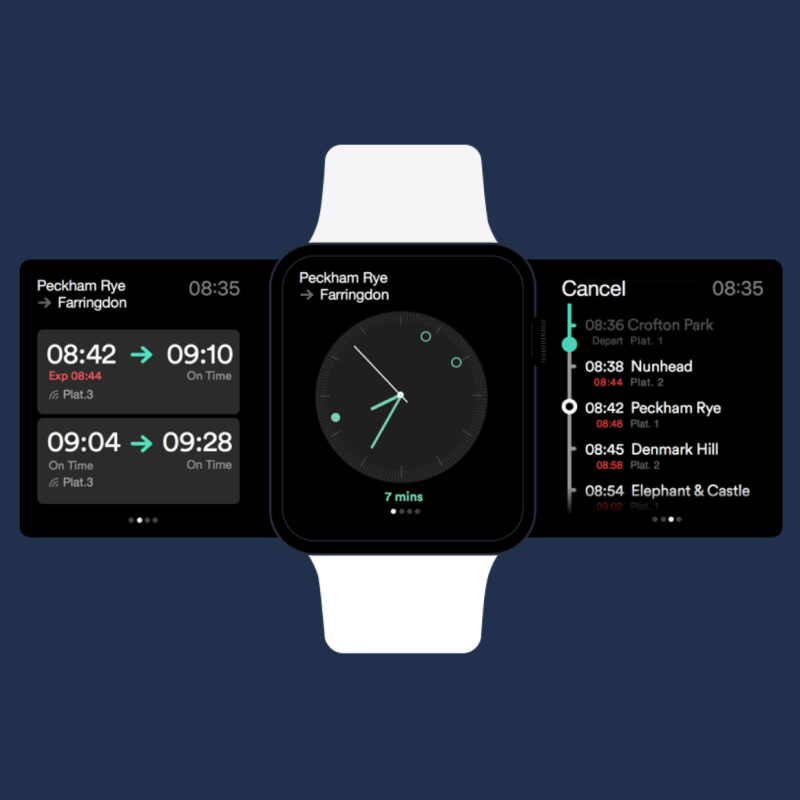
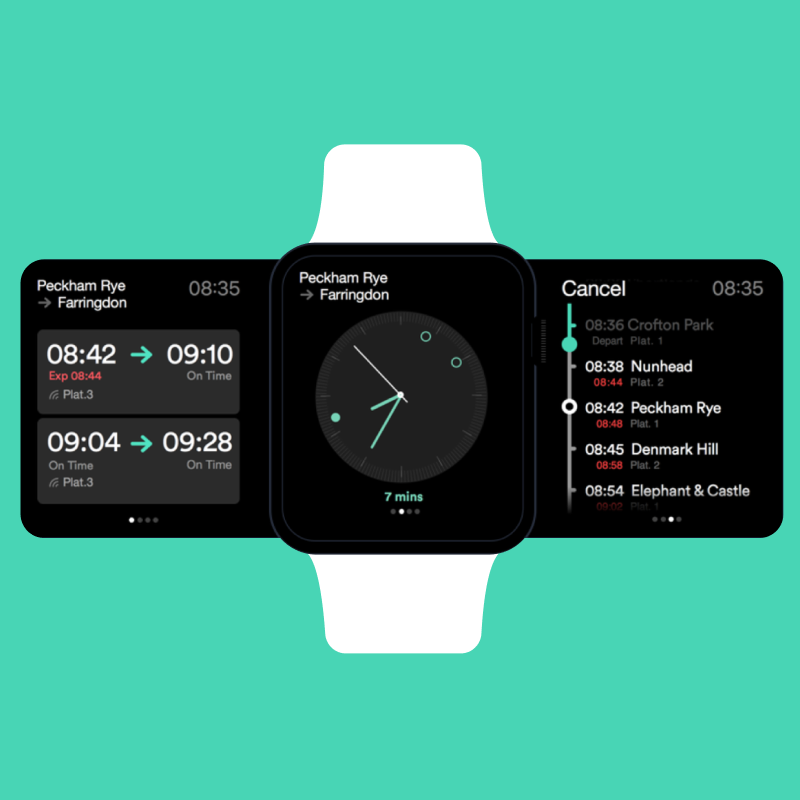
work samples

diff --git a/_includes/work-samples.html b/_includes/work-samples.html
@@ -2,14 +2,38 @@
 <div class="brand-wheel work-samples">
   <div class="brand-slide">
     <div class="work-sample-div">
-      <img src="../assets/images/projects/trainline/trainline-mobile-apps.jpg" class="img-thumbnail rounded" alt="1">
+      <img src="../assets/images/projects/worksamples/cookpad-splash.png" class="img-thumbnail rounded" alt="cookpad splash screen">
     </div>
     <div class="work-sample-div">
-      <img src="../assets/images/projects/worksamples/cookpad-splash.png" class="img-thumbnail rounded" alt="1">
+      <img src="../assets/images/projects/worksamples/cookpad-mise.png" class="img-thumbnail rounded" alt="Cookpad Mise Design System">
     </div>
     <div class="work-sample-div">
-      <img src="../assets/images/projects/worksamples/cookpad-mise.png" class="img-thumbnail rounded" alt="1">
+      <img src="../assets/images/projects/worksamples/cookpad-profile.png" class="img-thumbnail rounded" alt="Cookpad profile">
     </div>
+    <div class="work-sample-div">
+      <img src="../assets/images/projects/worksamples/sainsburys-design-system.png" class="img-thumbnail rounded" alt="sainsburys design system">
+    </div>
+    <div class="work-sample-div">
+      <img src="../assets/images/projects/worksamples/trainline-valid-on-2.png" class="img-thumbnail rounded" alt="Trainline – Also valid on">
+    </div>
+    <div class="work-sample-div">
+      <img src="../assets/images/projects/worksamples/trainline-icons.png" class="img-thumbnail rounded" alt="Trainline Design System icons">
+    </div>
+    <div class="work-sample-div">
+      <img src="../assets/images/projects/worksamples/trainline-apple-watch.png" class="img-thumbnail rounded" alt="Trainline Apple Watch app">
+    </div>
+    <div class="work-sample-div">
+      <img src="../assets/images/projects/recliningworm/wwf/LODPin.jpg" class="img-thumbnail rounded" alt="Legion of Doom pins">
+    </div>
+    <div class="work-sample-div">
+      <img src="../assets/images/projects/worksamples/street-fighter-stickerpack.png" class="img-thumbnail rounded" alt="Street Fighter stickers">
+    </div>
+    <div class="work-sample-div">
+      <img src="../assets/images/projects/worksamples/recliningworm-oakland-museum.png" class="img-thumbnail rounded" alt="Rapper pins">
+    </div>
+    <!-- <div class="work-sample-div">
+      <img src="../assets/images/projects/worksamples/cookpad-cooksnap-share.png" class="img-thumbnail rounded" alt="7">
+    </div> -->
     <!-- <div class="work-sample-div">
       <img src="https://akoyamockups.com/cdn/shop/files/Image_02_comp_713c8f40-8220-4a01-9323-344c2dd4cac2.jpg?v=1713796793&width=1100" class="img-thumbnail rounded" alt="Trainline watch">
     </div>
@@ -25,68 +49,39 @@
     <div class="work-sample-div">
       <img src="https://akoyamockups.com/cdn/shop/files/Image_01_comp_4ef8ede0-158f-42b5-a5f3-bc4103b97c9c.jpg?v=1705233395&width=750" class="img-thumbnail rounded" alt="Matillion Hex">
     </div> -->
-    <div class="work-sample-div">
-      <img src="../assets/images/projects/worksamples/trainline-valid-on-2.png" class="img-thumbnail rounded" alt="7">
-    </div>
-    <div class="work-sample-div">
-      <img src="../assets/images/projects/worksamples/trainline-icons.png" class="img-thumbnail rounded" alt="1">
-    </div>
-    <div class="work-sample-div">
-      <img src="../assets/images/projects/worksamples/trainline-apple-watch.png" class="img-thumbnail rounded" alt="7">
-    </div>
-    <div class="work-sample-div">
-      <img src="../assets/images/projects/worksamples/trainline-apple-watch-2.png" class="img-thumbnail rounded" alt="7">
-    </div>
-    <div class="work-sample-div">
-      <img src="../assets/images/projects/worksamples/cookpad-profile.png" class="img-thumbnail rounded" alt="7">
-    </div>
-    <div class="work-sample-div">
-      <img src="../assets/images/projects/worksamples/cookpad-cooksnap-share.png" class="img-thumbnail rounded" alt="7">
-    </div>
-    <div class="work-sample-div">
-      <img src="../assets/images/projects/worksamples/street-fighter-stickerpack.png" class="img-thumbnail rounded" alt="7">
-    </div>
-    <div class="work-sample-div">
-      <img src="../assets/images/projects/worksamples/recliningworm-oakland-museum.png" class="img-thumbnail rounded" alt="1">
-    </div>
-    <div class="work-sample-div">
-      <img src="../assets/images/projects/recliningworm/wwf/LODPin.jpg" class="img-thumbnail rounded" alt="7">
-    </div>
   </div>
 
   <div class="brand-slide delay">
     <div class="work-sample-div">
-      <img src="../assets/images/projects/trainline/trainline-mobile-apps.jpg" class="img-thumbnail rounded" alt="1">
+      <img src="../assets/images/projects/worksamples/cookpad-splash.png" class="img-thumbnail rounded" alt="cookpad splash screen">
     </div>
     <div class="work-sample-div">
-      <img src="https://akoyamockups.com/cdn/shop/files/Image_02_comp_713c8f40-8220-4a01-9323-344c2dd4cac2.jpg?v=1713796793&width=1100" class="img-thumbnail rounded" alt="Trainline watch">
+      <img src="../assets/images/projects/worksamples/cookpad-mise.png" class="img-thumbnail rounded" alt="Cookpad Mise Design System">
     </div>
     <div class="work-sample-div">
-      <img src="https://akoyamockups.com/cdn/shop/files/Image_02_comp_34981341-c59d-4d59-8b8e-73bc21381e20.jpg?v=1710707265&width=1100" class="img-thumbnail rounded" alt="Cookpad Splash">
+      <img src="../assets/images/projects/worksamples/cookpad-profile.png" class="img-thumbnail rounded" alt="Cookpad profile">
     </div>
     <div class="work-sample-div">
-      <img src="https://akoyamockups.com/cdn/shop/files/Image_02_comp_00e05ec7-1879-4d26-aa16-3c26eebd5a0d.jpg?v=1715070902&width=2000" class="img-thumbnail rounded" alt="Sainsburys">
+      <img src="../assets/images/projects/worksamples/sainsburys-design-system.png" class="img-thumbnail rounded" alt="sainsburys design system">
     </div>
     <div class="work-sample-div">
-      <img src="https://akoyamockups.com/cdn/shop/files/Image_03_comp_9a658a67-0c6f-444a-9a7c-7b82f0676041.jpg?v=1718643487&width=1100" class="img-thumbnail rounded" alt="RecliningWorm pin">
+      <img src="../assets/images/projects/worksamples/trainline-valid-on-2.png" class="img-thumbnail rounded" alt="Trainline – Also valid on">
     </div>
     <div class="work-sample-div">
-      <img src="https://akoyamockups.com/cdn/shop/files/Image_01_comp_4ef8ede0-158f-42b5-a5f3-bc4103b97c9c.jpg?v=1705233395&width=750" class="img-thumbnail rounded" alt="Matillion Hex">
+      <img src="../assets/images/projects/worksamples/trainline-icons.png" class="img-thumbnail rounded" alt="Trainline Design System icons">
     </div>
     <div class="work-sample-div">
-      <img src="../assets/images/projects/worksamples/trainline-valid-on.png" class="img-thumbnail rounded" alt="7">
+      <img src="../assets/images/projects/worksamples/trainline-apple-watch.png" class="img-thumbnail rounded" alt="Trainline Apple Watch app">
+    </div>
+
+    <div class="work-sample-div">
+      <img src="../assets/images/projects/recliningworm/wwf/LODPin.jpg" class="img-thumbnail rounded" alt="Legion of Doom pins">
     </div>
     <div class="work-sample-div">
-      <img src="../assets/images/projects/worksamples/trainline-apple-watch.png" class="img-thumbnail rounded" alt="7">
+      <img src="../assets/images/projects/worksamples/street-fighter-stickerpack.png" class="img-thumbnail rounded" alt="Street Fighter stickers">
     </div>
     <div class="work-sample-div">
-      <img src="../assets/images/projects/worksamples/trainline-apple-watch-2.png" class="img-thumbnail rounded" alt="7">
-    </div>
-    <div class="work-sample-div">
-      <img src="../assets/images/worksamples/street-fighter-stickerpack.png" class="img-thumbnail rounded" alt="7">
-    </div>
-    <div class="work-sample-div">
-      <img src="../assets/images/projects/recliningworm/wwf/LODPin.jpg" class="img-thumbnail rounded" alt="7">
+      <img src="../assets/images/projects/worksamples/recliningworm-oakland-museum.png" class="img-thumbnail rounded" alt="Rapper pins">
     </div>
   </div>
 </div>

diff --git a/_sass/_work-samples.scss b/_sass/_work-samples.scss
@@ -32,17 +32,29 @@
     transform: scale(1.06);
     transition: transform .2s
   }
+  .work-sample-div:nth-child(1) {
+    background: #FF9228;
+  }
   .work-sample-div:nth-child(2) {
-    background: red;
+    background: #F8F6F2;
   }
   .work-sample-div:nth-child(3) {
-    background: orange;
+    background: #EBA8AB;
   }
   .work-sample-div:nth-child(4) {
-    background: yellow;
+    background: #F06C00;
   }
   .work-sample-div:nth-child(5) {
-    background: green;
+    background: #48D5B5;
+  }
+  .work-sample-div:nth-child(6) {
+    background: #21304D;
+  }
+  .work-sample-div:nth-child(7) {
+    background: #48D5B5;
+  }
+  .work-sample-div:nth-child(8) {
+    background: red;
   }
 }
 

diff --git a/about.html b/about.html
@@ -36,7 +36,10 @@ permalink: /about
       <div class="col-xl-2"></div>
     </div>
 
-
+    <!-- Work samples -->
+    <div class="row" style="display: inline;">
+      {% include work-samples.html %}
+    </div>
 
     <div class="row selected-clients clients-white mt-4 pb-4">
       <div class="col-lg-3">

diff --git a/contact.html b/contact.html
@@ -36,6 +36,11 @@ permalink: /contact
     </div>
 
 
+    <!-- Work samples -->
+    <div class="row" style="display: inline;">
+      {% include work-samples.html %}
+    </div>
+
     <div class="clients-white">
       {% include clients-carousel.html %}
     </div>
